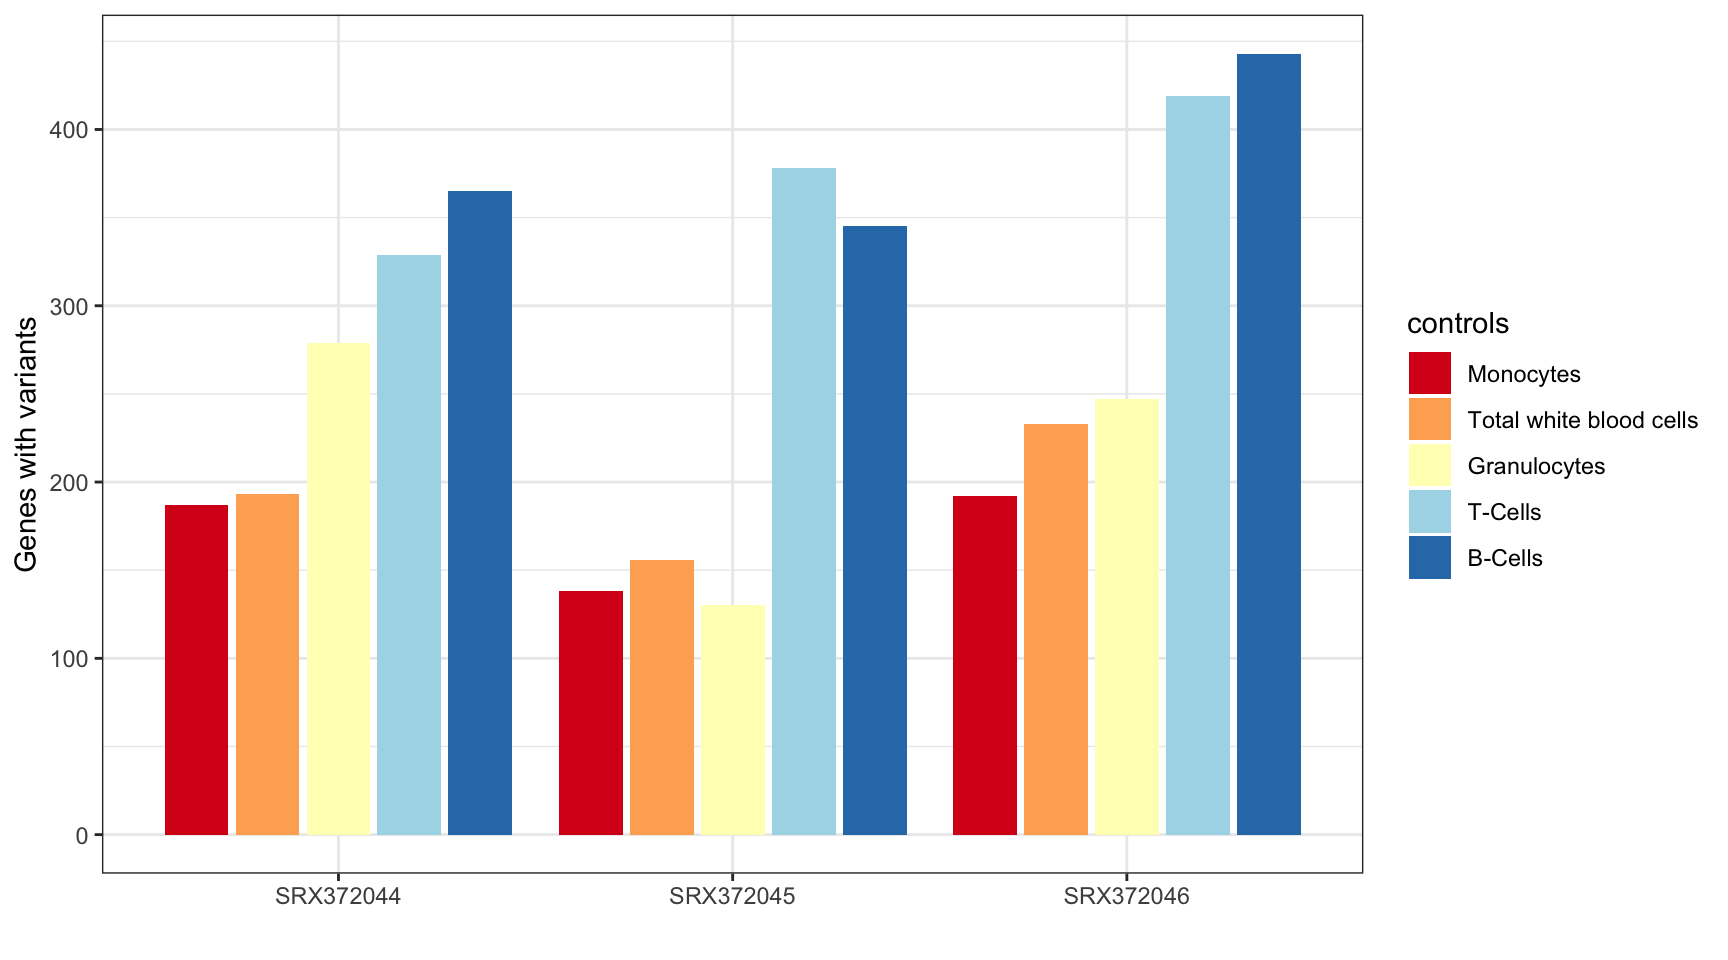
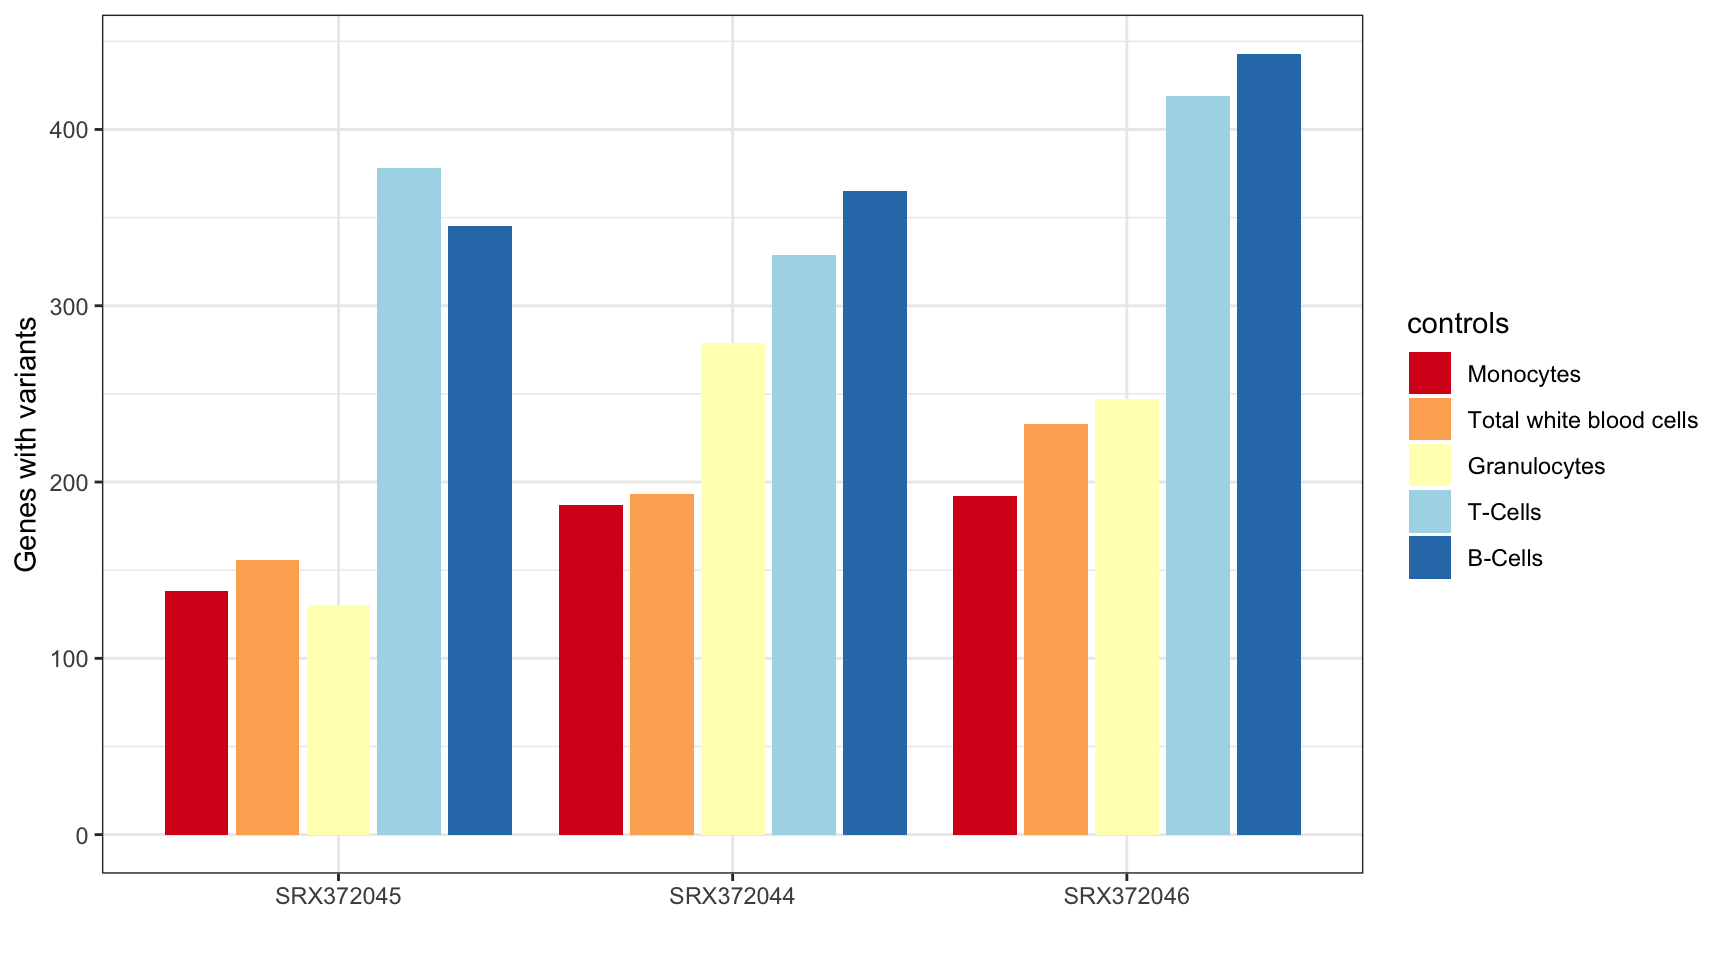
Build site.

diff --git a/docs/Leucegene_Validation.html b/docs/Leucegene_Validation.html
@@ -561,16 +561,16 @@ This reproducible <a href="http://rmarkdown.rstudio.com">R Markdown</a> analysis
 <div class="panel panel-default">
 <div class="panel-heading">
 <p class="panel-title">
-<a data-toggle="collapse" data-parent="#workflowr-checks" href="#strongRepositoryversionstrongahrefhttpsgithubcomOshlackMINTIEpaperanalysistreed8d5b9674ab37d849c418d03aeb63df57a80556dtargetblankd8d5b96a"> <span class="glyphicon glyphicon-ok text-success" aria-hidden="true"></span> <strong>Repository version:</strong> <a href="https://github.com/Oshlack/MINTIE-paper-analysis/tree/d8d5b9674ab37d849c418d03aeb63df57a80556d" target="_blank">d8d5b96</a> </a>
+<a data-toggle="collapse" data-parent="#workflowr-checks" href="#strongRepositoryversionstrongahrefhttpsgithubcomOshlackMINTIEpaperanalysistreeaf503f253494b562986aef0e6a9e18b5d17d22c6targetblankaf503f2a"> <span class="glyphicon glyphicon-ok text-success" aria-hidden="true"></span> <strong>Repository version:</strong> <a href="https://github.com/Oshlack/MINTIE-paper-analysis/tree/af503f253494b562986aef0e6a9e18b5d17d22c6" target="_blank">af503f2</a> </a>
 </p>
 </div>
[2 lines of base64/hex data omitted]
 <div class="panel-body">
 <p>
 Great! You are using Git for version control. Tracking code development and connecting the code version to the results is critical for reproducibility.
 </p>
 <p>
-The results in this page were generated with repository version <a href="https://github.com/Oshlack/MINTIE-paper-analysis/tree/d8d5b9674ab37d849c418d03aeb63df57a80556d" target="_blank">d8d5b96</a>. See the <em>Past versions</em> tab to see a history of the changes made to the R Markdown and HTML files.
+The results in this page were generated with repository version <a href="https://github.com/Oshlack/MINTIE-paper-analysis/tree/af503f253494b562986aef0e6a9e18b5d17d22c6" target="_blank">af503f2</a>. See the <em>Past versions</em> tab to see a history of the changes made to the R Markdown and HTML files.
 </p>
 <p>
 Note that you need to be careful to ensure that all relevant files for the analysis have been committed to Git prior to generating the results (you can use <code>wflow_publish</code> or <code>wflow_git_commit</code>). workflowr only checks the R Markdown file, but you know if there are other scripts or data files that it depends on. Below is the status of the Git repository when the results were generated:
@@ -631,6 +631,40 @@ Message
 </tr>
 </thead>
 <tbody>
+<tr>
+<td>
+Rmd
+</td>
+<td>
+<a href="https://github.com/Oshlack/MINTIE-paper-analysis/blob/af503f253494b562986aef0e6a9e18b5d17d22c6/analysis/Leucegene_Validation.Rmd" target="_blank">af503f2</a>
+</td>
+<td>
+Marek Cmero
+</td>
+<td>
+2020-05-07
+</td>
+<td>
+Refactoring
+</td>
+</tr>
+<tr>
+<td>
+html
+</td>
+<td>
+<a href="https://rawcdn.githack.com/Oshlack/MINTIE-paper-analysis/5c045b534e7c10361889255bbefe79111089f01a/docs/Leucegene_Validation.html" target="_blank">5c045b5</a>
+</td>
+<td>
+Marek Cmero
+</td>
+<td>
+2020-05-07
+</td>
+<td>
+Build site.
+</td>
+</tr>
 <tr>
 <td>
 Rmd
@@ -729,17 +763,7 @@ kmt2a_patient_lookup &lt;- read.delim(here(&quot;data/leucegene/sample_info/KMT2
 kmt2a_results_dir &lt;- here(&quot;data/leucegene/KMT2A-PTD_results&quot;)
 
 # load KMT2A cohort comparisons against all other controls
-kmt2a_results &lt;- NULL
-control_sets &lt;- list.files(kmt2a_results_dir)
-for (controls in control_sets) {
-    tmp &lt;- str_c(kmt2a_results_dir, controls, sep = &quot;/&quot;) %&gt;%
-            list.files(., full.names = TRUE) %&gt;%
-            lapply(., read.delim) %&gt;%
-            rbindlist() %&gt;%
-            filter(logFC &gt; 5) %&gt;%
-            mutate(controls = controls)
-    kmt2a_results &lt;- rbind(kmt2a_results, tmp)
-}
+kmt2a_results &lt;- load_controls_comparison(kmt2a_results_dir)
 kmt2a_results &lt;- inner_join(kmt2a_results, kmt2a_patient_lookup, by = &quot;sample&quot;)
 
 # load other validation reults and truth table
@@ -752,24 +776,7 @@ validation &lt;- list.files(leucegene_results_dir, full.names = TRUE) %&gt;%
 <div id="kmt2a-ptd-controls-comparison" class="section level2">
 <h2>KMT2A-PTD controls comparison</h2>
 <p>MINTIE paper Supplementary Figure 2. Shows the number of variant genes found in the Leucegene cohort containing KMT2A PTDs.</p>
-<pre class="r"><code># extract variant genes and make summary
-var_genes &lt;- kmt2a_results$overlapping_genes %&gt;%
-                str_split(&quot;\\||:&quot;)
-
-repeat_rows &lt;- rep(1:nrow(kmt2a_results), sapply(var_genes, length))
-results_by_gene &lt;- data.table(kmt2a_results[repeat_rows,])
-results_by_gene$gene &lt;- unlist(var_genes)
-
-results_summary &lt;- results_by_gene[, length(unique(gene)), by = c(&quot;patient&quot;, &quot;controls&quot;)]
-results_summary &lt;- results_summary %&gt;% arrange(controls, V1) %&gt;% data.table()
-results_summary$patient &lt;- factor(results_summary$patient,
-                                 levels = unique(results_summary$patient))
-
-# reorder by totals across different controls
-results_totals &lt;- results_summary[, sum(V1), by = c(&quot;controls&quot;)] %&gt;%
-                    arrange(V1)
-results_summary$controls &lt;- factor(results_summary$controls,
-                                    levels = results_totals$controls)
+<pre class="r"><code>results_summary &lt;- get_controls_results_summary(mutate(kmt2a_results, sample = patient))
 
 print(&quot;Total variant genes called using different controls:&quot;)</code></pre>
 <pre><code>[1] &quot;Total variant genes called using different controls:&quot;</code></pre>
@@ -782,8 +789,8 @@ print(&quot;Total variant genes called using different controls:&quot;)</code></
 1            AML_controls 129  213.5 2093
 2         normal_controls 266  508.0 2365
 3 normal_controls_reduced 501  794.0 2562</code></pre>
-<pre class="r"><code>ggplot(results_summary, aes(patient, V1, fill=controls)) +
-    geom_bar(position = position_dodge2(width  =0.9, preserve = &quot;single&quot;), stat = &quot;identity&quot;) +
+<pre class="r"><code>ggplot(results_summary, aes(sample, V1, fill = controls)) +
+    geom_bar(position = position_dodge2(width = 0.9, preserve = &quot;single&quot;), stat = &quot;identity&quot;) +
     theme_bw() +
     xlab(&quot;&quot;) +
     ylab(&quot;Genes with variants&quot;) +

diff --git a/docs/Leucegene_Normals.html b/docs/Leucegene_Normals.html
@@ -561,16 +561,16 @@ This reproducible <a href="http://rmarkdown.rstudio.com">R Markdown</a> analysis
 <div class="panel panel-default">
 <div class="panel-heading">
 <p class="panel-title">
-<a data-toggle="collapse" data-parent="#workflowr-checks" href="#strongRepositoryversionstrongahrefhttpsgithubcomOshlackMINTIEpaperanalysistreed8d5b9674ab37d849c418d03aeb63df57a80556dtargetblankd8d5b96a"> <span class="glyphicon glyphicon-ok text-success" aria-hidden="true"></span> <strong>Repository version:</strong> <a href="https://github.com/Oshlack/MINTIE-paper-analysis/tree/d8d5b9674ab37d849c418d03aeb63df57a80556d" target="_blank">d8d5b96</a> </a>
+<a data-toggle="collapse" data-parent="#workflowr-checks" href="#strongRepositoryversionstrongahrefhttpsgithubcomOshlackMINTIEpaperanalysistreeaf503f253494b562986aef0e6a9e18b5d17d22c6targetblankaf503f2a"> <span class="glyphicon glyphicon-ok text-success" aria-hidden="true"></span> <strong>Repository version:</strong> <a href="https://github.com/Oshlack/MINTIE-paper-analysis/tree/af503f253494b562986aef0e6a9e18b5d17d22c6" target="_blank">af503f2</a> </a>
 </p>
 </div>
[2 lines of base64/hex data omitted]
 <div class="panel-body">
 <p>
 Great! You are using Git for version control. Tracking code development and connecting the code version to the results is critical for reproducibility.
 </p>
 <p>
-The results in this page were generated with repository version <a href="https://github.com/Oshlack/MINTIE-paper-analysis/tree/d8d5b9674ab37d849c418d03aeb63df57a80556d" target="_blank">d8d5b96</a>. See the <em>Past versions</em> tab to see a history of the changes made to the R Markdown and HTML files.
+The results in this page were generated with repository version <a href="https://github.com/Oshlack/MINTIE-paper-analysis/tree/af503f253494b562986aef0e6a9e18b5d17d22c6" target="_blank">af503f2</a>. See the <em>Past versions</em> tab to see a history of the changes made to the R Markdown and HTML files.
 </p>
 <p>
 Note that you need to be careful to ensure that all relevant files for the analysis have been committed to Git prior to generating the results (you can use <code>wflow_publish</code> or <code>wflow_git_commit</code>). workflowr only checks the R Markdown file, but you know if there are other scripts or data files that it depends on. Below is the status of the Git repository when the results were generated:
@@ -631,6 +631,40 @@ Message
 </tr>
 </thead>
 <tbody>
+<tr>
+<td>
+Rmd
+</td>
+<td>
+<a href="https://github.com/Oshlack/MINTIE-paper-analysis/blob/af503f253494b562986aef0e6a9e18b5d17d22c6/analysis/Leucegene_Normals.Rmd" target="_blank">af503f2</a>
+</td>
+<td>
+Marek Cmero
+</td>
+<td>
+2020-05-07
+</td>
+<td>
+Refactoring
+</td>
+</tr>
+<tr>
+<td>
+html
+</td>
+<td>
+<a href="https://rawcdn.githack.com/Oshlack/MINTIE-paper-analysis/5c045b534e7c10361889255bbefe79111089f01a/docs/Leucegene_Normals.html" target="_blank">5c045b5</a>
+</td>
+<td>
+Marek Cmero
+</td>
+<td>
+2020-05-07
+</td>
+<td>
+Build site.
+</td>
+</tr>
 <tr>
 <td>
 html
@@ -955,55 +989,29 @@ controls_comp$cell_type &lt;- NULL
 
 # load comparisons against all other controls
 controls_test_dir &lt;- here(&quot;data/leucegene/normals_controls_test_results&quot;)
-celltypes &lt;- list.files(controls_test_dir)
-for (celltype in celltypes) {
-    tmp &lt;- str_c(controls_test_dir, celltype, sep = &quot;/&quot;) %&gt;%
-            list.files(., full.names = TRUE) %&gt;%
-            lapply(., read.delim) %&gt;%
-            rbindlist() %&gt;%
-            filter(logFC &gt; 5) %&gt;%
-            mutate(controls = celltype)
-    controls_comp &lt;- rbind(controls_comp, tmp)
-}
-
-# extract variant genes and make summary
-var_genes &lt;- controls_comp$overlapping_genes %&gt;%
-                str_split(&quot;\\||:&quot;)
-
-repeat_rows &lt;- rep(1:nrow(controls_comp), sapply(var_genes, length))
-results_by_gene &lt;- data.table(controls_comp[repeat_rows,])
-results_by_gene$gene &lt;- unlist(var_genes)
-
-results_summary &lt;- results_by_gene[, length(unique(gene)), by = c(&quot;sample&quot;, &quot;controls&quot;)]
-results_summary &lt;- results_summary %&gt;% arrange(sample, V1) %&gt;% data.table()
-results_summary$sample &lt;- factor(results_summary$sample,
-                                 levels = unique(results_summary$sample))
-
-# reorder by totals across different controls
-results_totals &lt;- results_summary[, sum(V1), by = c(&quot;controls&quot;)] %&gt;%
-                    arrange(V1)
-results_summary$controls &lt;- factor(results_summary$controls,
-                                    levels = results_totals$controls)
+controls_comp &lt;- load_controls_comparison(controls_test_dir) %&gt;%
+                    rbind(controls_comp, .)
+results_summary &lt;- get_controls_results_summary(controls_comp)
 
 print(&quot;Total variant genes called using different controls:&quot;)</code></pre>
 <pre><code>[1] &quot;Total variant genes called using different controls:&quot;</code></pre>
 <pre class="r"><code>print(results_summary)</code></pre>
-<pre><code>       sample controls  V1
- 1: SRX372044     mono 187
- 2: SRX372044     twbc 193
- 3: SRX372044     gran 279
- 4: SRX372044       tc 329
- 5: SRX372044       bc 365
- 6: SRX372045     gran 130
- 7: SRX372045     mono 138
- 8: SRX372045     twbc 156
- 9: SRX372045       bc 345
-10: SRX372045       tc 378
-11: SRX372046     mono 192
-12: SRX372046     twbc 233
-13: SRX372046     gran 247
-14: SRX372046       tc 419
-15: SRX372046       bc 443</code></pre>
+<pre><code>      sample controls  V1
+1  SRX372045       bc 345
+2  SRX372044       bc 365
+3  SRX372046       bc 443
+4  SRX372045     gran 130
+5  SRX372046     gran 247
+6  SRX372044     gran 279
+7  SRX372045     mono 138
+8  SRX372044     mono 187
+9  SRX372046     mono 192
+10 SRX372044       tc 329
+11 SRX372045       tc 378
+12 SRX372046       tc 419
+13 SRX372045     twbc 156
+14 SRX372044     twbc 193
+15 SRX372046     twbc 233</code></pre>
 <pre class="r"><code>ggplot(results_summary, aes(sample, V1, fill=controls)) +
     geom_bar(position=position_dodge2(width=0.9, preserve=&quot;single&quot;), stat=&quot;identity&quot;) +
     theme_bw() +
